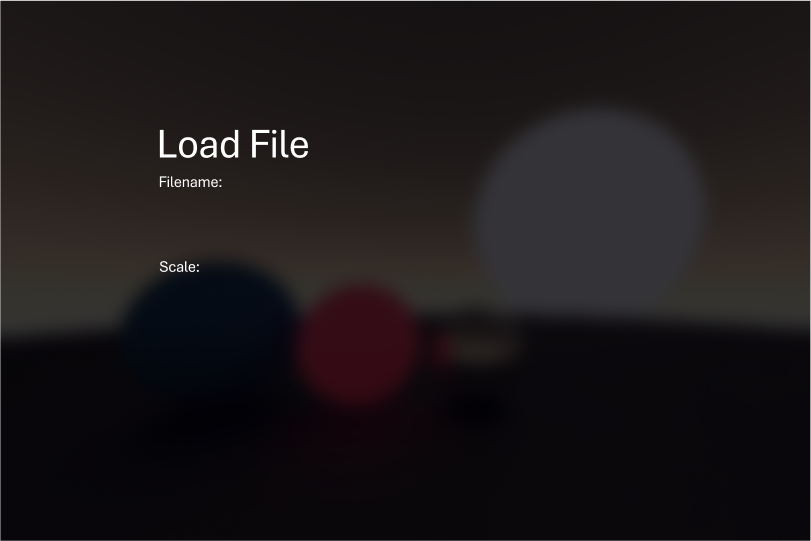
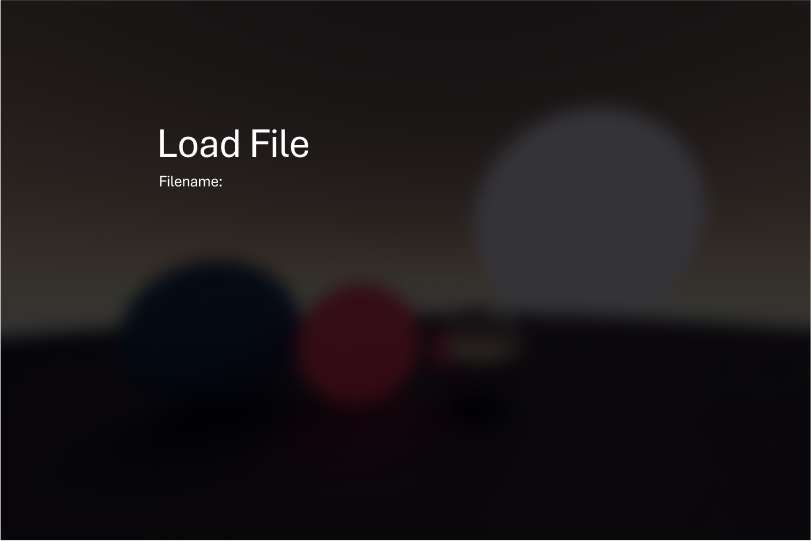
hello mr man

diff --git a/PythonApplication2/realtimeRenderer.py b/PythonApplication2/realtimeRenderer.py
@@ -26,10 +26,13 @@ class Triangle: #each individual triangle can be rendered and moved
     #     self.z1, self.z2, self.z3 = self.z1 + mZ, self.z2 + mZ, self.z3 + mZ
 
     def render(self): #renders the triangle object on screen
-        distance = calculateDistance((self.x1 + self.x2 + self.x3) / 3, (self.y1 + self.y2 + self.y3) / 3, (self.z1 + self.z2 + self.z3) / 3, self.outer.lightX / 10, self.outer.lightY / 10, self.outer.lightZ / 10)
-        distance = 1 + abs(distance / 100)
-        shade = (self.colour[0] / distance, self.colour[1] / distance, self.colour[2] / distance)
-        shade = (shade[0] * 255, shade[1] * 255, shade[2] * 255)
+        if self.rtArgs[2] == 0:
+            distance = calculateDistance((self.x1 + self.x2 + self.x3) / 3, (self.y1 + self.y2 + self.y3) / 3, (self.z1 + self.z2 + self.z3) / 3, self.outer.lightX / 10, self.outer.lightY / 10, self.outer.lightZ / 10)
+            distance = 1 + abs(distance / 100)
+            shade = (self.colour[0] / distance, self.colour[1] / distance, self.colour[2] / distance)
+            shade = (shade[0] * 255, shade[1] * 255, shade[2] * 255)
+        else:
+            shade = (self.colour[0] * 255, self.colour[1] * 255, self.colour[2] * 255)
         pygame.draw.polygon(self.outer.window, shade, (tuple(map(sum, zip(self.outer.project(self.x1, self.y1, self.z1), self.outer.globalTranslate))), 
                                                        tuple(map(sum, zip(self.outer.project(self.x2, self.y2, self.z2), self.outer.globalTranslate))), 
                                                        tuple(map(sum, zip(self.outer.project(self.x3, self.y3, self.z3), self.outer.globalTranslate)))))
@@ -95,23 +98,18 @@ def zRotate(x, y, z, deg): #calculates rotation of a point around z axis
     return newX, newY, newZ
 
 class RealtimeRenderer:
-    def __init__(self, window, focalLength, clock, baseCamX, baseCamY, baseCamZ, polyGoal, lightPos, skyTint, skyLight, globalTranslate, demoMode):
+    def __init__(self, window, focalLength, baseCamX, baseCamY, baseCamZ, polyGoal, skyTint, skyLight, globalTranslate, demoMode):
         self.window = window
         self.xRotation = 0
         self.yRotation = 0
         self.zRotation = 0
         self.focalLength = focalLength
         self.winWidth,  self.winHeight, self.mouseX, self.mouseY = 0, 0, 0, 0
-        self.clock = clock
         self.baseCamX, self.baseCamY, self.baseCamZ = baseCamX, baseCamY, baseCamZ
         self.subdivisionAmount = 0
         self.polyGoal = polyGoal
-        self.lightPos = lightPos
-        if not self.lightPos == "CAM":
-            self.lightX, self.lightY, self.lightZ = self.lightPos
         self.lastPolyCount = 0
         self.dynamicSubdivision = True
-        self.eye = [0,0,0,(0,0),False] #camera for rendering stored as position (x,y,z) and show/hide (True/False)
         self.skyTint = skyTint
         self.skyLight = skyLight
         self.globalTranslate = globalTranslate
@@ -133,21 +131,7 @@ class RealtimeRenderer:
         self.camX = 0 - self.camX
         self.camY = 0 - self.camY
         
-        if self.lightPos == "CAM":
-            self.lightX, self.lightY, self.lightZ = self.camX, self.camY, self.camZ
-        elif 1 == 0: #optional controls for moving lights
-            if keyboard.is_pressed("x+up arrow"):
-                self.lightX += 40
-            elif keyboard.is_pressed("x+down arrow"):
-                self.lightX -= 40
-            if keyboard.is_pressed("y+up arrow"):
-                self.lightY += 40
-            elif keyboard.is_pressed("y+down arrow"):
-                self.lightY -= 40
-            if keyboard.is_pressed("z+up arrow"):
-                self.lightZ += 40
-            elif keyboard.is_pressed("z+down arrow"):
-                self.lightZ -= 40
+        self.lightX, self.lightY, self.lightZ = self.camX, self.camY, self.camZ
 
     def getSphere(self, x, y, z, radius, colour, shine, emission):
         return Sphere(self, x,  y, z, radius, colour, ["Sphere", shine, emission])
@@ -156,15 +140,6 @@ class RealtimeRenderer:
         return Triangle(self, float(p1[0]), float(p1[1]), float(p1[2]), 
                               float(p2[0]), float(p2[1]), float(p2[2]), 
                               float(p3[0]), float(p3[1]), float(p3[2]), colour, ["Triangle", shine, emission])
-
-    def placeEye(self,x,y,z,fov):
-        self.eye = [x,y,z,fov,False]
-   
-    def eyeShowHide(self):
-        if self.eye[4]:
-            self.eye[4] = False
-        else:
-            self.eye[4] = True
 
     def project(self,x,y,z): #calculates 2d projection x and y of a point in 3d space, applying global rotation values
         dX, dY, dZ = xRotate(x, y, z, self.xRotation)
@@ -238,21 +213,6 @@ class RealtimeRenderer:
         shade = (colour[0] / distance, colour[1] / distance, colour[2] / distance)
         return[Triangle(self, x1, y1, z1, x2, y2, z2, x3, y3, z3, shade, rtArgs),
                Triangle(self, x1, y1, z1, x3, y3, z3, x4, y4, z4, shade, rtArgs)]
-    
-    def createEye(self, radius, x, y, z): #creates the static renderer camera preview
-        temp = []
-        temp.append(self.createCube(radius, x, y, z, normaliseRGB((255,0,0))))
-        s = 20 #scale for fov marker
-        temp.append(self.createLine(x + (radius / 2), y + (radius / 2), z - (radius / 2), 0 - s*(x-radius), 0 - s*(y-radius), 0, normaliseRGB((255,0,0))))
-        temp.append(self.createLine(x + (radius / 2), y - (radius / 2), z - (radius / 2), 0 - s*(x-radius), 0 - s*(y+radius), 0, normaliseRGB((255,0,0))))
-        temp.append(self.createLine(x - (radius / 2), y - (radius / 2), z - (radius / 2), 0 - s*(x+radius), 0 - s*(y+radius), 0, normaliseRGB((255,0,0))))
-        temp.append(self.createLine(x - (radius / 2), y + (radius / 2), z - (radius / 2), 0 - s*(x+radius), 0 - s*(y-radius), 0, normaliseRGB((255,0,0))))
-        
-        temp.append(self.createLine(0 - (self.eye[3][0] / 2), 0 - (self.eye[3][1] / 2), 0, 0 - (self.eye[3][0] / 2), (self.eye[3][1] / 2), 0, normaliseRGB((255,0,0))))
-        temp.append(self.createLine(0 - (self.eye[3][0] / 2), (self.eye[3][1] / 2), 0, (self.eye[3][0] / 2), (self.eye[3][1] / 2), 0, normaliseRGB((255,0,0))))
-        temp.append(self.createLine((self.eye[3][0] / 2), (self.eye[3][1] / 2), 0, (self.eye[3][0] / 2), 0 - (self.eye[3][1] / 2), 0, normaliseRGB((255,0,0))))
-        temp.append(self.createLine((self.eye[3][0] / 2), 0 - (self.eye[3][1] / 2), 0, 0 - (self.eye[3][0] / 2), 0 - (self.eye[3][1] / 2), 0, normaliseRGB((255,0,0))))
-        return temp
 
     def createCube(self, sideLength, x, y, z, colour, rtArgs): #creates a cube from quadrilaterals
         p = sideLength / 2
@@ -262,9 +222,6 @@ class RealtimeRenderer:
                self.createQuad(x + p, y + p, z + p, x + p, y + p, z - p, x + p, y - p, z - p, x + p, y - p, z + p, colour, rtArgs),
                self.createQuad(x - p, y + p, z - p, x + p, y + p, z - p, x + p, y + p, z + p, x - p, y + p, z + p, colour, rtArgs),
                self.createQuad(x - p, y - p, z - p, x + p, y - p, z - p, x + p, y - p, z + p, x - p, y - p, z + p, colour, rtArgs)]
-    
-    def createLine(self, x1, y1, z1, x2, y2, z2, colour, rtArgs):
-        return self.createQuad(x1, y1, z1 + 0.5, x1, y1, z1 - 0.5, x2, y2, z2 + 0.5, x2, y2, z2 - 0.5, colour, rtArgs)
 
     def trianglesFromMesh(self, x, y, z, mesh, faces, sf, colour, rtArgs):
         triangles = []
@@ -313,13 +270,11 @@ class RealtimeRenderer:
                 # shadedShapes.append(Sphere(self, 50, -50, 0, 10, colourA, ["Sphere",0.5,0]))
                 # shadedShapes.append(Sphere(self, -50, 50, 0, 20, colourB, ["Sphere",0.5,0]))
             else:
-                cube1 = self.createQuad(0,0,0,0,0,0,0,0,0,0,0,0,colourB, ["Triangle",0,0])
+                cube1 = self.createQuad(0,0,0,0,0,0,0,0,0,0,0,0, colourB, ["Triangle",0,0])
                 shadedShapes.append(cube1)
 
         else:
             shadedShapes.append(obj) #return all objects on screen as an array ie return[cube1, cube2, quad1, quad2]
-        if self.eye[4]:
-            unshadedShapes.append(self.createEye(5, self.eye[0], self.eye[1], self.eye[2]))
         return [shadedShapes, unshadedShapes]
 
     def render(self, allShapes):

diff --git a/PythonApplication2/main.py b/PythonApplication2/main.py
@@ -7,6 +7,7 @@ from realtimeRenderer import *
 from staticRenderer import *
 from utilities import *
 import pygame_gui as gui
+import subprocess
 
 if __name__ == "__main__":
     pygame.init()
@@ -27,14 +28,23 @@ if __name__ == "__main__":
     loadButton = gui.elements.UIButton(relative_rect = pygame.Rect((158, 363), (100, 50)), text = "Load", manager = guiManager, visible = 0)
     returnButton = gui.elements.UIButton(relative_rect = pygame.Rect((292, 363), (100, 50)), text = "Return", manager = guiManager, visible = 0)
 
-    fileInput = gui.elements.UITextEntryBox(relative_rect = pygame.Rect((158, 193), (150, 50)), manager = guiManager, visible = 0)
-    sfInput = gui.elements.UITextEntryBox(relative_rect = pygame.Rect((158, 278), (150, 50)), manager = guiManager, visible = 0)
+    fileInput = gui.elements.UITextEntryBox(relative_rect = pygame.Rect((158, 193), (150, 50)), manager = guiManager, placeholder_text = "example.obj", visible = 0)
+    sfInput = gui.elements.UITextEntryBox(relative_rect = pygame.Rect((158, 278), (90, 50)), manager = guiManager, placeholder_text = "Scale: 0+", visible = 0)
+    colourInput = gui.elements.UITextEntryBox(relative_rect = pygame.Rect((244, 278), (115, 50)), manager = guiManager, placeholder_text = "Colour: FFFFFF", visible = 0)
+    shineInput = gui.elements.UITextEntryBox(relative_rect = pygame.Rect((355, 278), (90, 50)), manager = guiManager, placeholder_text = "Shine: 0-1", visible = 0)
+    emissionInput = gui.elements.UITextEntryBox(relative_rect = pygame.Rect((441, 278), (110, 50)), manager = guiManager, placeholder_text = "Emission: 0-1", visible = 0)
+    
     uiInputData = {fileInput : "",
-                   sfInput : ""}
+                   sfInput : "",
+                   colourInput : "",
+                   shineInput : "",
+                   emissionInput : ""}
     
     state = "setup" #states: setup, editor, rendering
     background = bg_mainmenu
     demoMode = False
+    objColour = normaliseRGB((255, 92, 0))
+    objRtArgs = ["Triangle", 0, 0]
     while state == "setup":
         clock.tick()
         time_delta = clock.tick(60)/1000.0
@@ -57,16 +67,20 @@ if __name__ == "__main__":
                     background = bg_loadfile
                     uiHide((runDemoButton, loadFileButton, openEditorButton))
                     quitButton.set_position((426, 363))
-                    uiShow((fileInput, sfInput, loadButton, returnButton))
+                    uiShow((fileInput, sfInput, colourInput, shineInput, emissionInput, loadButton, returnButton))
                 elif event.ui_element == openEditorButton:
                     shapes = (0, 0)
                     state = "editor"
                 elif event.ui_element == loadButton:
-                    shapes = (uiInputData[fileInput], float(uiInputData[sfInput]))
-                    state = "editor"
+                    if isValidPositive(uiInputData[sfInput]) and isValidHexCode(uiInputData[colourInput]) and isValidSmallDec(uiInputData[shineInput]) and isValidSmallDec(uiInputData[shineInput]):
+                        if uiInputData[fileInput].endswith(".obj") and isInDirectory(uiInputData[fileInput]):
+                            shapes = (uiInputData[fileInput], float(uiInputData[sfInput]))
+                            objColour = normaliseRGB(hexToRGB(uiInputData[colourInput]))
+                            objRtArgs = ["Triangle", float(uiInputData[shineInput]), float(uiInputData[emissionInput])]
+                            state = "editor"
                 elif event.ui_element == returnButton:
                     background = bg_mainmenu
-                    uiHide((fileInput, sfInput, loadButton, returnButton))
+                    uiHide((fileInput, sfInput, colourInput, shineInput, emissionInput, loadButton, returnButton))
                     quitButton.set_position((555, 287))
                     uiShow((runDemoButton, loadFileButton, openEditorButton))
                 elif event.ui_element == quitButton:
@@ -79,24 +93,21 @@ if __name__ == "__main__":
                 exit()
 
     baseCamX, baseCamY, baseCamZ = 0, 0, 1000
-    lightPos = "CAM"
     polyGoal = 2000
-    uiHide((runDemoButton, loadFileButton, openEditorButton, quitButton, loadButton, returnButton, fileInput, sfInput))
+    uiHide((runDemoButton, loadFileButton, openEditorButton, quitButton, loadButton, returnButton, fileInput, sfInput, colourInput, shineInput, emissionInput))
 
     count = 0
     focalLength = 300#300
     skyTint = (1,1,1.7) #standard 1,1,1.7, 1.5,1.3,1 #hex is 9696FF
     skyLight = 0.8
     globalTranslate = (85,0,0)
-    rt = RealtimeRenderer(window, focalLength, clock, baseCamX, baseCamY, baseCamZ, polyGoal, lightPos, skyTint, skyLight, globalTranslate, demoMode)
+    rt = RealtimeRenderer(window, focalLength, baseCamX, baseCamY, baseCamZ, polyGoal, skyTint, skyLight, globalTranslate, demoMode)
 
     startTime = time.perf_counter()
 
-    objColour = normaliseRGB((255, 92, 0))
-    rtArgs = ["Triangle", 0, 0]
-    loadedObj = rt.load(shapes[0],shapes[1], objColour, rtArgs)
-
-    rt.placeEye(0,0,150,(200,200))
+    # objColour = normaliseRGB((255, 92, 0))
+    # objRtArgs = ["Triangle", 0, 0]
+    loadedObj = rt.load(shapes[0],shapes[1], objColour, objRtArgs)
 
     rt.update()
 
@@ -197,7 +208,7 @@ if __name__ == "__main__":
                         if isValidCoordinate(uiInputData[centreInput]) and isValidPositive(uiInputData[radiusInput]) and isValidHexCode(uiInputData[colourInput]) and isValidSmallDec(uiInputData[shineInput]) and isValidSmallDec(uiInputData[emissionInput]):
                             uiHide((centreInput, radiusInput, colourInput, shineInput, emissionInput, addButton))
                             p = uiInputData[centreInput].split(",")
-                            sphere = rt.getSphere(float(p[0]), float(p[1]), float(p[2]), float(uiInputData[radiusInput]),
+                            sphere = rt.getSphere(float(p[0]), 0 - float(p[1]), float(p[2]), float(uiInputData[radiusInput]),
                                                   normaliseRGB(hexToRGB(uiInputData[colourInput])),
                                                   float(uiInputData[shineInput]), float(uiInputData[emissionInput]))
                             polygons.append(sphere)
@@ -206,8 +217,11 @@ if __name__ == "__main__":
                         if isValidCoordinate(uiInputData[point1Input]) and isValidCoordinate(uiInputData[point2Input]) and isValidCoordinate(uiInputData[point3Input]) and isValidHexCode(uiInputData[colourInput]) and isValidSmallDec(uiInputData[shineInput]) and isValidSmallDec(uiInputData[emissionInput]):
                             uiHide((point1Input, point2Input, point3Input, colourInput, shineInput, emissionInput, addButton))
                             p1 = uiInputData[point1Input].split(",")
+                            p1[1] = 0 - float(p1[1])
                             p2 = uiInputData[point2Input].split(",")
+                            p2[1] = 0 - float(p2[1])
                             p3 = uiInputData[point3Input].split(",")
+                            p3[1] = 0 - float(p3[1])
                             triangle = rt.getTriangle(p1, p2, p3,
                                                       normaliseRGB(hexToRGB(uiInputData[colourInput])),
                                                       float(uiInputData[shineInput]), float(uiInputData[emissionInput]))
@@ -250,3 +264,4 @@ if __name__ == "__main__":
 
     sr = StaticRenderer(width, height, (0,0,0), window, polygons, rt.skyTint, rt.skyLight)
     sr.render()
+    subprocess.Popen(["explorer", "image.png"])

diff --git a/PythonApplication2/utilities.py b/PythonApplication2/utilities.py
@@ -4,6 +4,7 @@ import numpy
 import sys
 import random
 import re
+import os
 
 class Vect: #class for a 3D vector
     def __init__(self, x: float | int, y: float | int, z: float | int):
@@ -73,7 +74,7 @@ class Vect: #class for a 3D vector
                     (self.z / self.mag()))
     
     def roundTuple(self):
-        return(round(self.x), round(self.y), round(self.z))
+        return (round(self.x), round(self.y), round(self.z))
     
     def returnArray(self):
         return [self.x, self.y, self.z]
@@ -186,7 +187,7 @@ def uiShow(elements):
         element.show()
 
 def isValidCoordinate(string):
-    return re.fullmatch("-?[0-9]+,-?[0-9]+,-?[0-9]+", string)
+    return re.fullmatch("(-?(([0-9]+)|([0-9]+.[0-9]+)),){2}-?(([0-9]+)|([0-9]+.[0-9]+))", string)
 
 def isValidHexCode(string):
     return re.fullmatch("([0-9]|[A-F]){6}", string)
@@ -197,8 +198,15 @@ def isValidSmallDec(string):
             return True
     return False
 
+def isInDirectory(string):
+    valid = False
+    for file in os.listdir("."):
+        if file == string:
+            valid = True
+    return valid
+
 def isValidPositive(string):
-    return re.fullmatch("([0-9]*)|([0-9]*.[0-9]+)", string)
+    return re.fullmatch("([0-9]+)|([0-9]+.[0-9]+)", string)
 
 def hexToRGB(hex):
     r = int(hex[:2], 16)

diff --git a/PythonApplication2/staticRenderer.py b/PythonApplication2/staticRenderer.py
@@ -7,7 +7,7 @@ import pygame
 from utilities import *
 
 def randomVector() -> Vect:
-    return Vect(random.random() * 2 - 1.0, random.random() * 2 - 1.0, random.random() * 2.0 - 1.0)        
+    return Vect(random.random() * 2 - 1.0, random.random() * 2 - 1.0, random.random() * 2.0 - 1.0)
     
 class Sphere:
     def __init__(self, centre: Vect, radius, colour: Vect, shine: float, emission: float):
@@ -175,7 +175,7 @@ class StaticRenderer:
         return light * 1.5
     
     def parallelShading(self):
-        coords = [(self.objects, index % self.width, index // self.width, 3, self.width, self.height, self.skyTint, self.skyLight) for index in range(self.width * self.height)]
+        coords = [(self.objects, index % self.width, index // self.width, 5, self.width, self.height, self.skyTint, self.skyLight) for index in range(self.width * self.height)]
         
         with Pool() as pool:
             colours = pool.map(StaticRenderer.pixelShader, coords)
@@ -286,7 +286,6 @@ class StaticRenderer:
             for event in pygame.event.get():
                 if event.type == pygame.QUIT:
                     running = False
-
             start = time.time()
             self.parallelShading()
             self.show()
